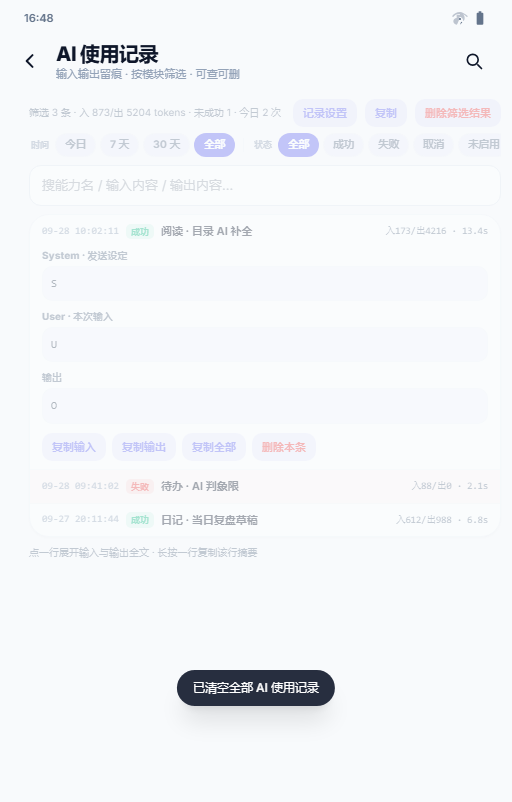
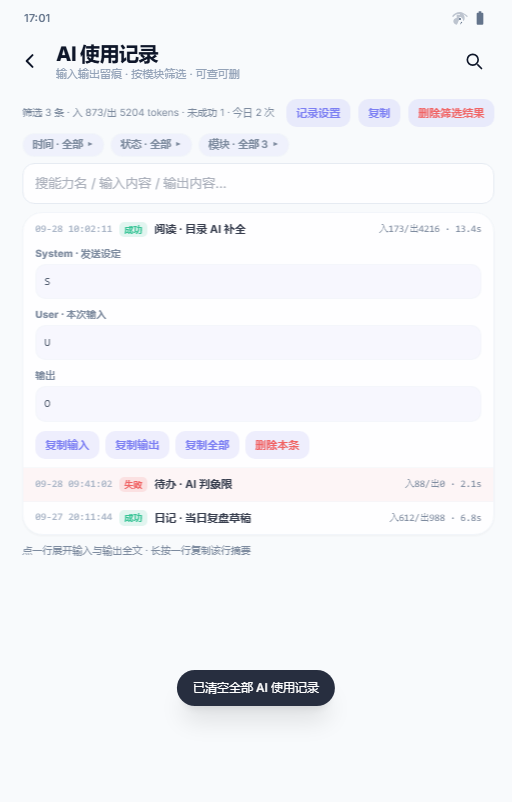
feat(proto): V1.53 AI 使用记录第三轮（三组条件收成三胶囊 · 点开才横向弹选项 · 列表再让出 10px）
- #auBar 只留三个胶囊：时间·今日 / 状态·全部 / 模块·全部 N（各显当前值，整行 24px），选项条挂 #auPop 默认 hidden
- auPopToggle 点开=横向滑出该组选项（当前项高亮），auPopPick 选完即生效并自动收起，再点同一胶囊收起；同时只开一组
- auModChips 退役，改 auOpts/auCur/auLblOf/auPills/auPopRender 统一渲染；auSetRange/auSetSt/auPickMod 收敛为纯设值（兼容既有调用签名）
- 列表限高 100vh-268px → 258px；长按行=auCopyLine 复制该行摘要保留
- 校验 tools/aiusagecheck.js 20/20 PASS：T4 改判「胶囊出选项+选完收起+胶囊标题回显当前值」，T18 改判三胶囊同基线且选项条默认收起，新增 T20 点时间胶囊出 4 项再点收起；截图新增 aiu-pill-open.png

diff --git a/prototype/index.html b/prototype/index.html
@@ -1508,6 +1508,7 @@ tailwind.config = {
     </section>
 
     <!-- ===== P12c3 二级：AI 使用记录（V1.53 · 全屏明细 · 无底栏 · 筛选合一行 · 统计与删除上移） ===== -->
+    <!-- ===== P12c3 二级：AI 使用记录（V1.53 · 全屏明细 · 无底栏 · 三胶囊点开横向选项 · 列表通底） ===== -->
     <section id="p-aiUsage" class="page px-5 no-scrollbar">
       <div class="flex items-center gap-2 mt-2 text-[10px] text-slate-500 dark:text-slate-400">
         <span id="auSum" class="truncate">0 条 · 入 0/出 0 tokens · 未成功 0</span>
@@ -1515,26 +1516,11 @@ tailwind.config = {
         <button class="mini-btn shrink-0" onclick="auCopyAll()">复制</button>
         <button class="mini-btn shrink-0" style="color:#ef4444" onclick="auDelFiltered()">删除筛选结果</button>
       </div>
-      <!-- 时间 / 状态 / 模块 合并为一行（横向可滑），把纵向空间全留给列表 -->
-      <div class="flex items-center gap-1 mt-1.5 overflow-x-auto no-scrollbar pb-1" id="auBar">
-        <span class="au-cap">时间</span>
-        <button id="auD0" class="auf on" onclick="auSetRange(0,'auD0')">今日</button>
-        <button id="auD7" class="auf" onclick="auSetRange(7,'auD7')">7 天</button>
-        <button id="auD30" class="auf" onclick="auSetRange(30,'auD30')">30 天</button>
-        <button id="auDA" class="auf" onclick="auSetRange(9999,'auDA')">全部</button>
-        <span class="au-div"></span>
-        <span class="au-cap">状态</span>
-        <button id="auSAll" class="auf on" onclick="auSetSt('all','auSAll')">全部</button>
-        <button id="auSOk" class="auf" onclick="auSetSt('ok','auSOk')">成功</button>
-        <button id="auSF" class="auf" onclick="auSetSt('fail','auSF')">失败</button>
-        <button id="auSC" class="auf" onclick="auSetSt('cancel','auSC')">取消</button>
-        <button id="auSD" class="auf" onclick="auSetSt('denied','auSD')">未启用</button>
-        <span class="au-div"></span>
-        <span class="au-cap">模块</span>
-        <span class="flex gap-1" id="auModRow"></span>
-      </div>
-      <input id="auKw" class="inp w-full mt-1" placeholder="搜能力名 / 输入内容 / 输出内容…" oninput="auRender()">
-      <div class="card mt-2 !p-0 overflow-hidden" id="auBox" style="max-height:calc(100vh - 268px);overflow-y:auto"></div>
+      <!-- 时间 / 状态 / 模块 收成三个胶囊：点某个胶囊才横向展开该组选项，纵向空间尽量留给列表 -->
+      <div class="flex items-center gap-1.5 mt-1.5" id="auBar"></div>
+      <div id="auPop" class="hidden"></div>
+      <input id="auKw" class="inp w-full mt-1.5" placeholder="搜能力名 / 输入内容 / 输出内容…" oninput="auRender()">
+      <div class="card mt-2 !p-0 overflow-hidden" id="auBox" style="max-height:calc(100vh - 258px);overflow-y:auto"></div>
       <div class="text-[10px] text-slate-500 dark:text-slate-400 mt-2 mb-3" id="auHint">点一行展开输入与输出全文 · 长按一行复制该行摘要</div>
     </section>
 
@@ -4081,7 +4067,7 @@ var AI_CALLS=[
   sys:'你是任务分解助手。只输出 JSON：{"subtasks":["…"]}，3~6 条，每条不超过 15 字。',
   usr:'标题：筹备十月技术分享',out:'{"subtasks":["定题与大纲","整理示例代码","做幻灯片","预讲一次","收集反馈问题"]}',err:''}
 ];
-var auD=0,auSt='all',auMod='all',auBodyOn=true,auKeepDays=30,auArm=null;
+var auD=0,auSt='all',auMod='all',auBodyOn=true,auKeepDays=30,auArm=null,auPop=null;
 function auEsc(s){return (s||'').replace(/[&<>]/g,function(c){return {'&':'&amp;','<':'&lt;','>':'&gt;'}[c];});}
 function auInRange(r){return auD>=9999?true:(auD===0?r.d===0:r.d<auD);}
 function auList(){
@@ -4100,16 +4086,42 @@ function auMsTxt(ms){return ms>=1000?(ms/1000).toFixed(1)+'s':ms+'ms';}
 function auSumOf(list){var n=list.length,it=0,ot=0,f=0;
   list.forEach(function(r){it+=r.it;ot+=r.ot;if(r.st==='fail'||r.st==='cancel')f++;});
   return {n:n,it:it,ot:ot,f:f};}
-function auModChips(){
-  var pool=AI_CALLS.filter(auInRange);var cnt={};
+/* 三组选项的候选集（模块组按当前时间范围计数） */
+function auOpts(g){
+  if(g==='d')return [['0','今日'],['7','7 天'],['30','30 天'],['9999','全部']];
+  if(g==='st')return [['all','全部'],['ok','成功'],['fail','失败'],['cancel','取消'],['denied','未启用']];
+  var pool=AI_CALLS.filter(auInRange),cnt={};
   pool.forEach(function(r){cnt[r.m]=(cnt[r.m]||0)+1;});
-  var mods=Object.keys(cnt).sort();
-  var h='<button class="auf'+(auMod==='all'?' on':'')+'" onclick="auPickMod(\'all\')">全部 '+pool.length+'</button>';
-  mods.forEach(function(m){h+='<button class="auf'+(auMod===m?' on':'')+'" onclick="auPickMod(\''+m+'\')">'+m+' '+cnt[m]+'</button>';});
-  $('#auModRow').innerHTML=h;
+  return [['all','全部 '+pool.length]].concat(Object.keys(cnt).sort().map(function(m){return [m,m+' '+cnt[m]];}));
+}
+function auCur(g){return g==='d'?String(auD):(g==='st'?auSt:auMod);}
+function auLblOf(g,v){var o=auOpts(g).filter(function(x){return x[0]===v;})[0];return o?o[1]:'全部';}
+/* 点胶囊=横向弹出该组选项；再点同一胶囊=收起 */
+function auPopToggle(g){auPop=(auPop===g?null:g);auRender();}
+function auPopPick(g,v){
+  if(g==='d')auD=+v;else if(g==='st')auSt=v;else auMod=v;
+  auPop=null;auRender();
+}
+function auPills(){
+  var cur={d:auLblOf('d',String(auD)),st:auLblOf('st',auSt),mod:auLblOf('mod',auMod)};
+  $('#auBar').innerHTML=[['d','时间'],['st','状态'],['mod','模块']].map(function(p){
+    var on=auPop===p[0];
+    return '<button id="aup-'+p[0]+'" class="auf'+(on?' on':'')+'" onclick="auPopToggle(\''+p[0]+'\')">'
+      +p[1]+' · '+cur[p[0]]+' <span class="au-ar">'+(on?'▾':'▸')+'</span></button>';
+  }).join('');
+}
+function auPopRender(){
+  auPills();
+  var box=$('#auPop');if(!box)return;
+  if(!auPop){box.className='hidden';box.innerHTML='';return;}
+  box.className='';
+  box.innerHTML='<div class="flex gap-1 overflow-x-auto no-scrollbar mt-1.5 pb-1">'
+    +auOpts(auPop).map(function(o){
+      return '<button class="auf'+(o[0]===auCur(auPop)?' on':'')+'" onclick="auPopPick(\''+auPop+'\',\''+o[0]+'\')">'+o[1]+'</button>';
+    }).join('')+'</div>';
 }
 function auRender(){
-  auModChips();
+  auPopRender();
   var list=auList(),h='';
   if(!list.length){h='<div class="p-6 text-center text-[11px] text-slate-400">该范围暂无 AI 调用记录<br><span class="opacity-70">换时间范围或清掉关键词再看</span></div>';}
   list.forEach(function(r){
@@ -4155,8 +4167,8 @@ function auKpi(){
 }
 function auSeg(id,ids){ids.forEach(function(i){var b=document.getElementById(i);if(b)b.classList.remove('on');});
   var on=document.getElementById(id);if(on)on.classList.add('on');}
-function auSetRange(d,id){auD=d;auSeg(id,['auD0','auD7','auD30','auDA']);auRender();}
-function auSetSt(st,id){auSt=st;auSeg(id,['auSAll','auSOk','auSF','auSC','auSD']);auRender();}
+function auSetRange(d){auD=+d;auRender();}
+function auSetSt(st){auSt=st;auRender();}
 function auPickMod(m){auMod=m;auRender();}
 function auToggle(i){var r=AI_CALLS.filter(function(x){return x.i===i;})[0];if(!r)return;
   r.open=!r.open;auRender();}

diff --git a/tools/aiu_patch3.js b/tools/aiu_patch3.js
@@ -1,0 +1,105 @@
+/* V1.53 原型第三轮：三组筛选收成三个胶囊，点某个胶囊才横向展开该组选项
+ * 区域定位一律用「函数名到函数名」切片 + 内容断言，避免整段文本逐字匹配失败。 */
+const fs = require('fs');
+const F = 'prototype/index.html';
+let s = fs.readFileSync(F, 'utf8');
+const before = s.length;
+fs.writeFileSync('tools/aiu_snapshot_page3_before.html', s);
+function cut(from, to, mustHave, label) {
+  const i = s.indexOf(from), j = s.indexOf(to);
+  if (i < 0 || j < 0 || j <= i) { console.error(`[${label}] 区域定位失败`); process.exit(1); }
+  const seg = s.slice(i, j);
+  for (const m of mustHave) if (!seg.includes(m)) { console.error(`[${label}] 区域缺少 ${m}`); process.exit(1); }
+  return [i, j, seg];
+}
+function replaceRange(from, to, mustHave, replacement, label) {
+  const [i, j] = cut(from, to, mustHave, label);
+  s = s.slice(0, i) + replacement + s.slice(j);
+  console.log(`[${label}] ok`);
+}
+
+/* ① 页面骨架：#auBar 只放三个胶囊，选项条挂 #auPop，列表限高再放宽 */
+{
+  const a = '    <section id="p-aiUsage" class="page px-5 no-scrollbar">';
+  const i = s.indexOf(a);
+  if (i < 0) { console.error('[page] 找不到 p-aiUsage 段首'); process.exit(1); }
+  const win = s.slice(i, i + 8000);
+  const k = win.indexOf('</section>');
+  if (k < 0) { console.error('[page] 找不到 </section>'); process.exit(1); }
+  if (!win.slice(0, k).includes('auBox')) { console.error('[page] 段内缺 auBox，定位可疑'); process.exit(1); }
+  s = s.slice(0, i) + fs.readFileSync('tools/aiu_frag_page3.txt', 'utf8') + s.slice(i + k + '</section>\n'.length);
+  console.log('[page] ok');
+}
+
+/* ② 状态变量补 auPop */
+{
+  const anchor = 'var auD=0,auSt=\'all\',auMod=\'all\',auBodyOn=true,auKeepDays=30,auArm=null;';
+  if (s.split(anchor).length - 1 !== 1) { console.error('[state] 锚点异常'); process.exit(1); }
+  s = s.replace(anchor, anchor.replace('auArm=null;', 'auArm=null,auPop=null;'));
+  console.log('[state] ok');
+}
+
+/* ③ auModChips → 胶囊与选项条渲染 */
+replaceRange('function auModChips(){', 'function auRender(){',
+  ['auModRow', 'pool.length'],
+`/* 三组选项的候选集（模块组按当前时间范围计数） */
+function auOpts(g){
+  if(g==='d')return [['0','今日'],['7','7 天'],['30','30 天'],['9999','全部']];
+  if(g==='st')return [['all','全部'],['ok','成功'],['fail','失败'],['cancel','取消'],['denied','未启用']];
+  var pool=AI_CALLS.filter(auInRange),cnt={};
+  pool.forEach(function(r){cnt[r.m]=(cnt[r.m]||0)+1;});
+  return [['all','全部 '+pool.length]].concat(Object.keys(cnt).sort().map(function(m){return [m,m+' '+cnt[m]];}));
+}
+function auCur(g){return g==='d'?String(auD):(g==='st'?auSt:auMod);}
+function auLblOf(g,v){var o=auOpts(g).filter(function(x){return x[0]===v;})[0];return o?o[1]:'全部';}
+/* 点胶囊=横向弹出该组选项；再点同一胶囊=收起 */
+function auPopToggle(g){auPop=(auPop===g?null:g);auRender();}
+function auPopPick(g,v){
+  if(g==='d')auD=+v;else if(g==='st')auSt=v;else auMod=v;
+  auPop=null;auRender();
+}
+function auPills(){
+  var cur={d:auLblOf('d',String(auD)),st:auLblOf('st',auSt),mod:auLblOf('mod',auMod)};
+  $('#auBar').innerHTML=[['d','时间'],['st','状态'],['mod','模块']].map(function(p){
+    var on=auPop===p[0];
+    return '<button id="aup-'+p[0]+'" class="auf'+(on?' on':'')+'" onclick="auPopToggle(\\''+p[0]+'\\')">'
+      +p[1]+' · '+cur[p[0]]+' <span class="au-ar">'+(on?'▾':'▸')+'</span></button>';
+  }).join('');
+}
+function auPopRender(){
+  auPills();
+  var box=$('#auPop');if(!box)return;
+  if(!auPop){box.className='hidden';box.innerHTML='';return;}
+  box.className='';
+  box.innerHTML='<div class="flex gap-1 overflow-x-auto no-scrollbar mt-1.5 pb-1">'
+    +auOpts(auPop).map(function(o){
+      return '<button class="auf'+(o[0]===auCur(auPop)?' on':'')+'" onclick="auPopPick(\\''+auPop+'\\',\\''+o[0]+'\\')">'+o[1]+'</button>';
+    }).join('')+'</div>';
+}
+`, 'pills');
+
+/* ④ auRender 里改调 auPopRender */
+{
+  const anchor = 'function auRender(){\n  auModChips();\n';
+  if (s.split(anchor).length - 1 !== 1) { console.error('[render] 锚点异常'); process.exit(1); }
+  s = s.replace(anchor, 'function auRender(){\n  auPopRender();\n');
+  console.log('[render] ok');
+}
+
+/* ⑤ 段选函数改为纯设值（胶囊态由 auPopRender 统一渲染），并兼容既有调用签名 */
+replaceRange('function auSetRange(', 'function auToggle(',
+  ['auSetRange', 'auSetSt', 'auPickMod'],
+`function auSetRange(d){auD=+d;auRender();}
+function auSetSt(st){auSt=st;auRender();}
+function auPickMod(m){auMod=m;auRender();}
+`, 'setters');
+
+const grew = s.length - before;
+/* 本轮是「静态标记换运行时渲染」，体积近乎持平：改判内容而非增量 */
+if (grew < -4000 || grew > 20000) { console.error(`体积变化异常（${grew}），拒绝写回`); process.exit(1); }
+for (const need of ['function auPopRender', 'function auPopToggle', 'id="auPop"', 'auLblOf']) {
+  if (!s.includes(need)) { console.error(`产物缺少 ${need}，拒绝写回`); process.exit(1); }
+}
+if (/function auModChips\(/.test(s)) { console.error('旧函数 auModChips 残留，拒绝写回'); process.exit(1); }
+fs.writeFileSync(F, s);
+console.log(`OK 写入完成：${before} → ${s.length}（${grew >= 0 ? '+' : ''}${grew}）`);

diff --git a/tools/aiusagecheck.js b/tools/aiusagecheck.js
@@ -64,15 +64,19 @@ const RESET = "auSetSt('all','auSAll');auSetRange(9999,'auDA');auPickMod('all');
   /* T3 全部范围 13 条 */  const t3 = await ev(`auSetRange(9999,'auDA');return {rows:${ROWS},cnt:$('#auSum').textContent};`);
   (t3.rows.length === 13) ? ok('T3 切「全部」= 13 条') : bad('T3', JSON.stringify(t3));
 
-  /* T4 模块 chips 计数与筛选 */
+  /* T4 模块胶囊：点开才横向出选项（带计数）· 选完自动收起并生效 */
   const t4 = await ev(`${RESET}
-    var chips=[].map.call($$('#auModRow .auf'),function(b){return b.textContent.trim()});
-    auPickMod('阅读');
+    auPopToggle('mod');
+    var chips=[].map.call($$('#auPop .auf'),function(b){return b.textContent.trim()});
+    var openH=!!document.querySelector('#aup-mod.on');
+    auPopPick('mod','阅读');
     var rows=[].map.call(document.querySelectorAll('#auBox .ailine .am'),function(e){return e.textContent});
-    var r={chips:chips,n:rows.length,allRead:rows.every(function(t){return /^阅读 ·/.test(t)})};
+    var r={chips:chips,openH:openH,closed:document.getElementById('auPop').className==='hidden',
+      n:rows.length,allRead:rows.every(function(t){return /^阅读 ·/.test(t)}),
+      pill:$('#aup-mod').textContent.replace(/\\s+/g,'')};
     auPickMod('all');return r;`);
-  (t4.n === 4 && t4.allRead && t4.chips.join('|').indexOf('阅读 4') > 0)
-    ? ok('T4 模块 chips 带计数 · 选「阅读」=4 条') : bad('T4', JSON.stringify(t4));
+  (t4.openH && t4.closed && t4.n === 4 && t4.allRead && t4.chips.join('|').indexOf('阅读 4') > 0 && t4.pill.indexOf('模块·阅读4') >= 0)
+    ? ok('T4 模块胶囊横向出选项（带计数）· 选「阅读」=4 条并收起', JSON.stringify(t4.pill)) : bad('T4', JSON.stringify(t4));
 
   /* T5 状态筛选 */
   const t5 = await ev(`${RESET}auSetSt('fail','auSF');var r={rows:${ROWS},cnt:$('#auSum').textContent};auSetSt('all','auSAll');return r;`);
@@ -175,11 +179,22 @@ const RESET = "auSetSt('all','auSAll');auSetRange(9999,'auDA');auPickMod('all');
     ? ok('T17 本页隐藏底栏且 main 通底（与日志页同款）', JSON.stringify(t17)) : bad('T17', JSON.stringify(t17));
 
   const t18 = await ev(`
-    var ids=['auD0','auSAll','auModRow'].map(function(i){return document.getElementById(i).getBoundingClientRect().top});
+    var ids=['aup-d','aup-st','aup-mod'].map(function(i){return document.getElementById(i).getBoundingClientRect().top});
     var bar=document.getElementById('auBar');
-    return {tops:ids.map(function(t){return Math.round(t)}),bar:!!bar,h:Math.round(bar.getBoundingClientRect().height)};`);
-  (t18.bar && (Math.max.apply(null, t18.tops) - Math.min.apply(null, t18.tops)) < 6 && t18.h < 46)
-    ? ok('T18 时间/状态/模块合并为一行（同基线 · 行高 <46px）', JSON.stringify(t18)) : bad('T18', JSON.stringify(t18));
+    return {tops:ids.map(function(t){return Math.round(t)}),bar:!!bar,h:Math.round(bar.getBoundingClientRect().height),
+      popHidden:document.getElementById('auPop').className==='hidden'};`);
+  (t18.bar && (Math.max.apply(null, t18.tops) - Math.min.apply(null, t18.tops)) < 6 && t18.h < 40 && t18.popHidden)
+    ? ok('T18 三组条件收成一行三胶囊（同基线 · 行高<40px · 选项条默认收起）', JSON.stringify(t18)) : bad('T18', JSON.stringify(t18));
+
+  const t20 = await ev(`auPopToggle('d');
+    var o=$$('#auPop .auf').length, act=!!document.querySelector('#auPop .auf.on'), h=Math.round(document.getElementById('auPop').getBoundingClientRect().height);
+    auPopToggle('d');
+    return {o:o,act:act,h:h,closed:document.getElementById('auPop').className==='hidden'};`);
+  (t20.o === 4 && t20.act && t20.h > 20 && t20.closed)
+    ? ok('T20 点「时间」胶囊横向弹出 4 个选项（当前项高亮）· 再点收起', JSON.stringify(t20)) : bad('T20', JSON.stringify(t20));
+  await ev(`auPopToggle('mod');return 1;`);
+  await shot('aiu-pill-open');
+  await ev(`auPopToggle('mod');return 1;`);
 
   const t19 = await ev(`
     var sum=$('#auSum').getBoundingClientRect(), box=$('#auBox').getBoundingClientRect();
